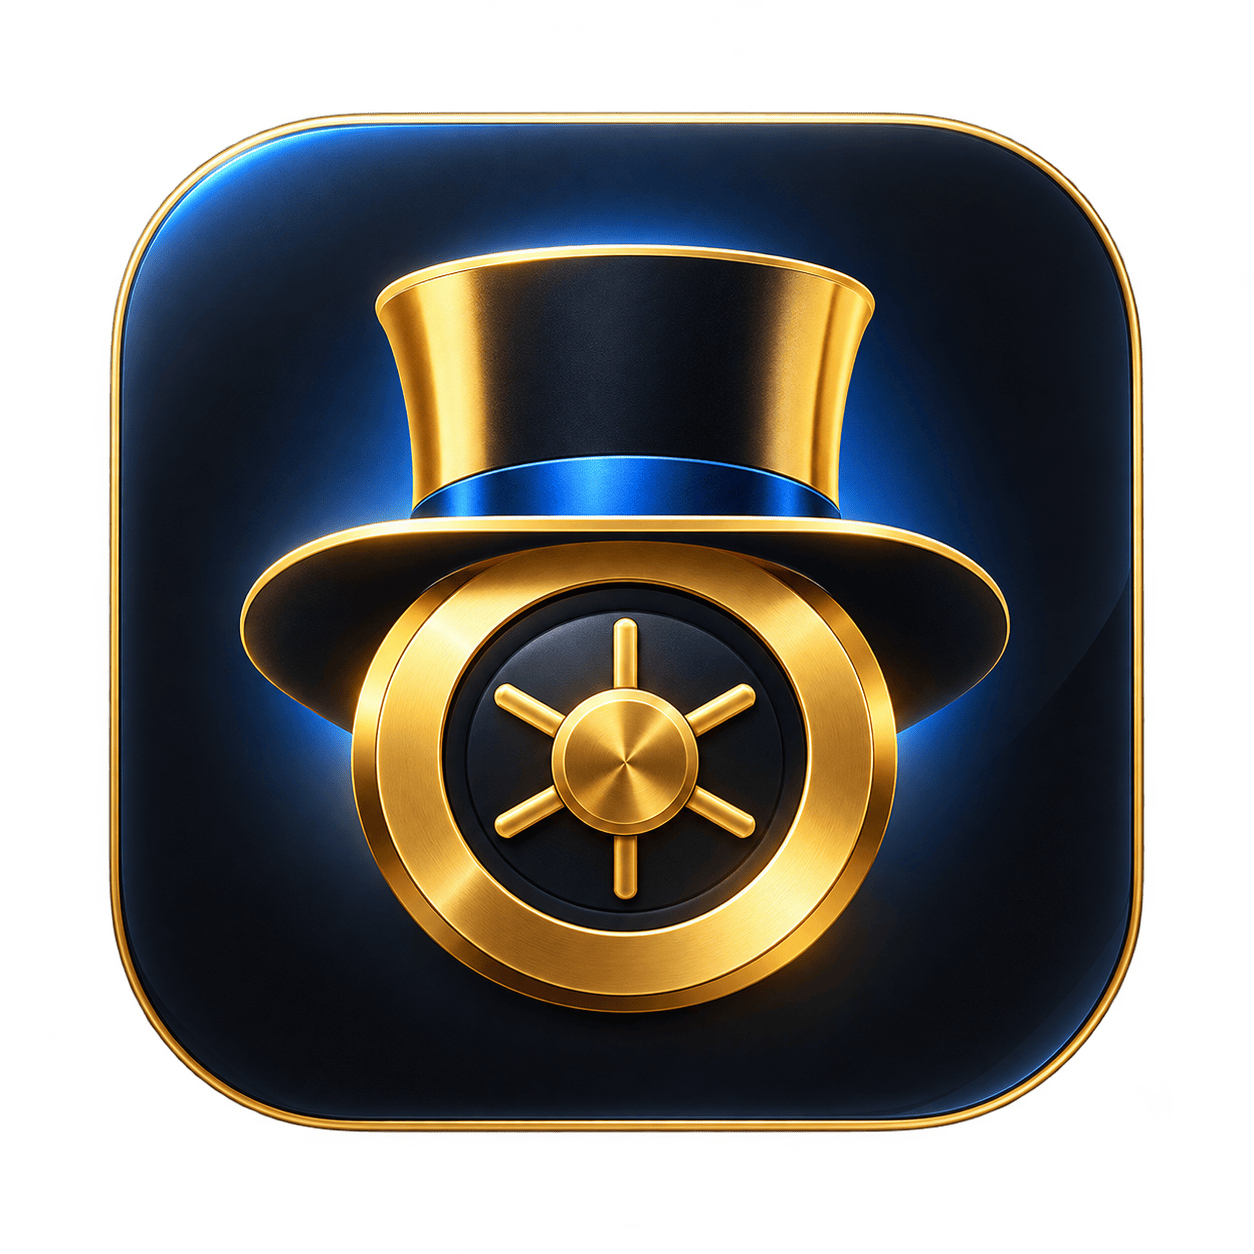
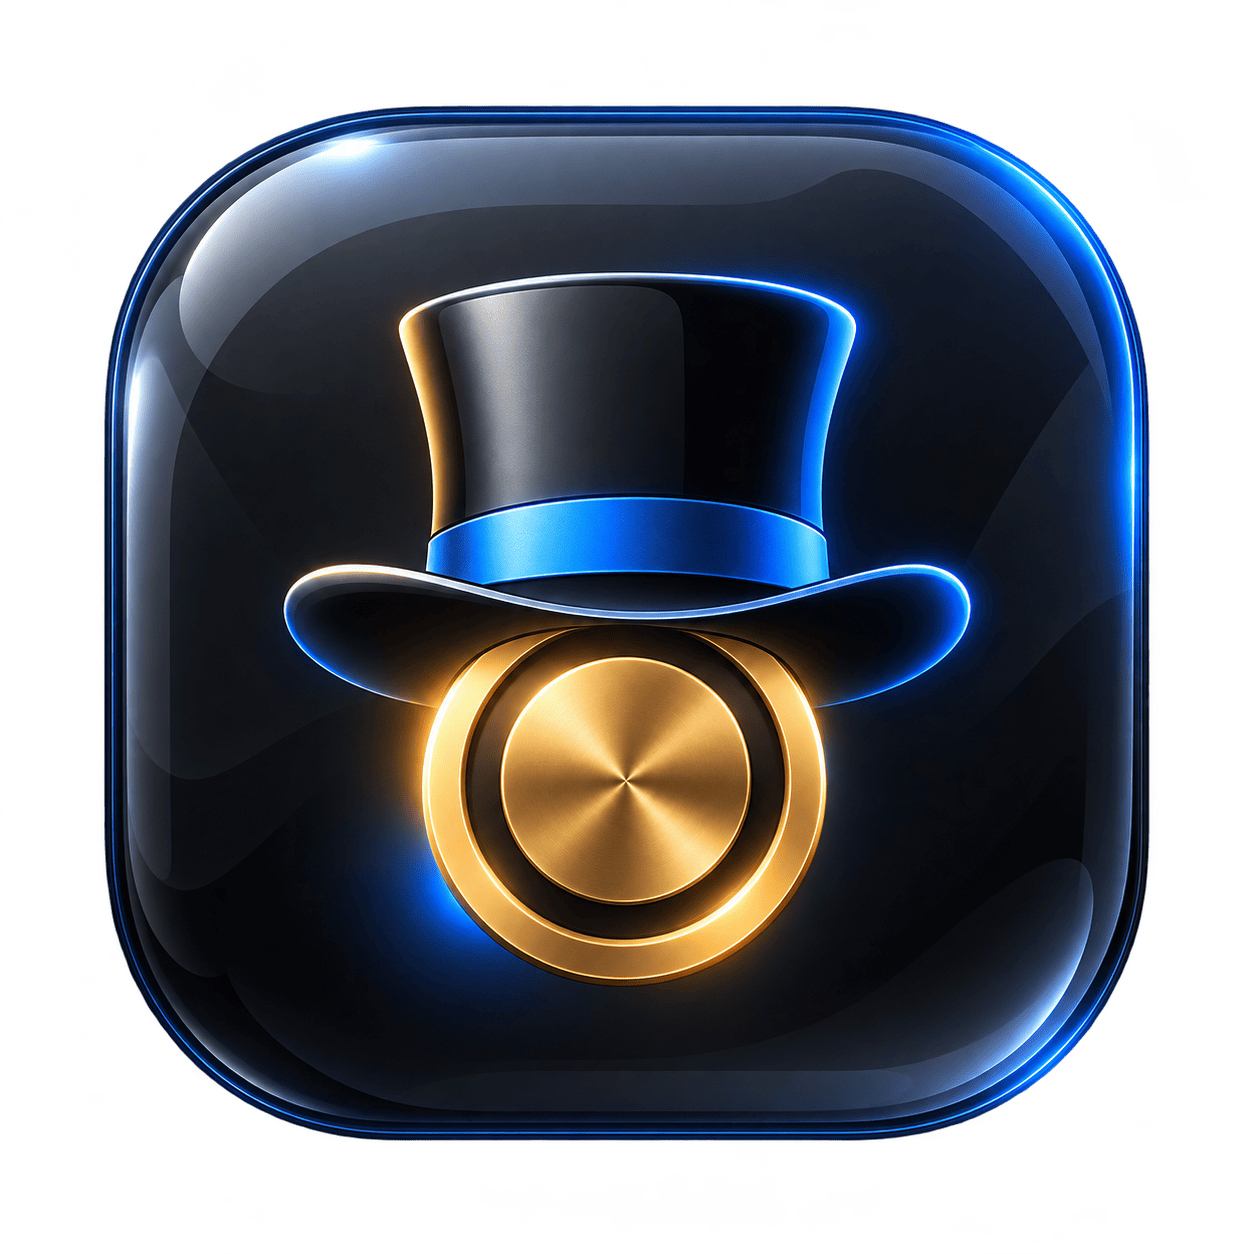
feat(branding): deploy compressed IconDagobertV3 & fix statistics dropdown and inactive contrast styling

diff --git a/src/components/StatisticsView.tsx b/src/components/StatisticsView.tsx
@@ -16,7 +16,7 @@ const percentage = new Intl.NumberFormat('de-DE', { maximumFractionDigits: 1 });
 const months = Array.from({ length: 12 }, (_, index) =>
   new Intl.DateTimeFormat('de-DE', { month: 'long' }).format(new Date(2020, index, 1)));
 const card = 'rounded-3xl border border-ios-separator dark:border-ios-darkSeparator glass-surface p-4 sm:p-5 shadow-sm';
-const secondary = 'text-slate-600 dark:text-slate-400';
+const secondary = 'text-slate-600 dark:text-slate-300';
 const control = 'min-h-[48px] rounded-xl px-4 text-sm font-semibold focus-visible:outline focus-visible:outline-2 focus-visible:outline-offset-2 focus-visible:outline-ios-tint';
 
 function signedMoney(value: number): string {
@@ -107,28 +107,50 @@ export function StatisticsView({ transactions, categories, onSelectTransaction }
           </div>
         </div>
         <div className="flex flex-wrap items-end gap-3">
-          <div className="inline-flex rounded-2xl bg-slate-100 dark:bg-neutral-800 p-1" role="group" aria-label="Zeitraumansicht">
+          <div className="inline-flex rounded-2xl glass-pill p-1 border border-ios-separator dark:border-ios-darkSeparator" role="group" aria-label="Zeitraumansicht">
             {(['year', 'month'] as const).map(value => (
               <button
                 key={value}
                 type="button"
                 aria-pressed={mode === value}
                 onClick={() => { setMode(value); clearCategory(); }}
-                className={`${control} ${mode === value ? 'bg-white dark:bg-neutral-700 shadow-sm' : secondary}`}
+                className={`${control} transition-all ${
+                  mode === value
+                    ? 'bg-ios-tint text-white shadow-sm font-bold'
+                    : 'text-slate-700 dark:text-slate-200 hover:text-slate-900 dark:hover:text-white'
+                }`}
               >{value === 'year' ? 'Jahr' : 'Monat'}</button>
             ))}
           </div>
-          <label className={`flex min-w-24 flex-col gap-1 text-xs font-semibold ${secondary}`}>
-            Jahr
-            <select aria-label="Jahr" value={year} onChange={event => { setYear(Number(event.target.value)); clearCategory(); }} className={`${control} border border-slate-200 dark:border-neutral-700 bg-white dark:bg-neutral-800 text-slate-900 dark:text-white`}>
-              {years.map(value => <option key={value} value={value}>{value}</option>)}
+          <label className="flex min-w-28 flex-col gap-1.5 text-xs font-semibold text-slate-800 dark:text-slate-200">
+            <span>Jahr</span>
+            <select
+              aria-label="Jahr"
+              value={year}
+              onChange={event => { setYear(Number(event.target.value)); clearCategory(); }}
+              className={`${control} glass-surface border border-ios-separator dark:border-ios-darkSeparator text-slate-900 dark:text-white outline-none cursor-pointer shadow-sm`}
+            >
+              {years.map(value => (
+                <option key={value} value={value} className="bg-white dark:bg-neutral-900 text-slate-900 dark:text-white">
+                  {value}
+                </option>
+              ))}
             </select>
           </label>
           {mode === 'month' && (
-            <label className={`flex min-w-36 flex-col gap-1 text-xs font-semibold ${secondary}`}>
-              Monat
-              <select aria-label="Monat" value={month} onChange={event => { setMonth(Number(event.target.value)); clearCategory(); }} className={`${control} border border-slate-200 dark:border-neutral-700 bg-white dark:bg-neutral-800 text-slate-900 dark:text-white`}>
-                {months.map((name, index) => <option key={name} value={index + 1}>{name}</option>)}
+            <label className="flex min-w-36 flex-col gap-1.5 text-xs font-semibold text-slate-800 dark:text-slate-200">
+              <span>Monat</span>
+              <select
+                aria-label="Monat"
+                value={month}
+                onChange={event => { setMonth(Number(event.target.value)); clearCategory(); }}
+                className={`${control} glass-surface border border-ios-separator dark:border-ios-darkSeparator text-slate-900 dark:text-white outline-none cursor-pointer shadow-sm`}
+              >
+                {months.map((name, index) => (
+                  <option key={name} value={index + 1} className="bg-white dark:bg-neutral-900 text-slate-900 dark:text-white">
+                    {name}
+                  </option>
+                ))}
               </select>
             </label>
           )}
@@ -166,10 +188,10 @@ export function StatisticsView({ transactions, categories, onSelectTransaction }
                 type="button"
                 aria-label={`${months[item.month - 1]} ${year}: Einnahmen ${currency.format(item.income)}, Ausgaben ${currency.format(item.expense)}, Netto ${signedMoney(item.net)}. Monat anzeigen`}
                 onClick={() => { setMonth(item.month); setMode('month'); clearCategory(); }}
-                className="min-w-0 rounded-2xl p-3 text-left hover:bg-slate-50 dark:hover:bg-neutral-800 focus-visible:outline focus-visible:outline-2 focus-visible:outline-ios-tint"
+                className="min-w-0 rounded-2xl p-3 text-left glass-pill border border-ios-separator dark:border-ios-darkSeparator hover:border-ios-tint/50 transition-all focus-visible:outline focus-visible:outline-2 focus-visible:outline-ios-tint"
               >
                 <div className="flex flex-wrap justify-between gap-x-3 gap-y-1 text-xs">
-                  <span className="font-bold">{months[item.month - 1]}</span>
+                  <span className="font-bold text-slate-900 dark:text-white">{months[item.month - 1]}</span>
                   <span className={secondary}>Netto <span className={`font-semibold tabular-nums ${item.net < 0 ? 'text-red-700 dark:text-red-400' : 'text-emerald-700 dark:text-emerald-400'}`}>{signedMoney(item.net)}</span></span>
                 </div>
                 <div className="mt-2 grid grid-cols-[minmax(0,1fr)_auto] items-center gap-x-3 gap-y-1.5">
@@ -187,9 +209,20 @@ export function StatisticsView({ transactions, categories, onSelectTransaction }
       <section className={card} aria-labelledby="statistics-categories-title">
         <div className="flex flex-wrap items-center justify-between gap-3">
           <h2 id="statistics-categories-title" className="font-bold">{categoryLabel} nach Kategorie · {periodLabel}</h2>
-          <div role="group" aria-label="Kategorieauswertung" className="inline-flex rounded-2xl bg-slate-100 dark:bg-neutral-800 p-1">
+          <div role="group" aria-label="Kategorieauswertung" className="inline-flex rounded-2xl glass-pill p-1 border border-ios-separator dark:border-ios-darkSeparator">
             {(['expense', 'income'] as const).map(value => (
-              <button key={value} type="button" aria-label={value === 'expense' ? 'Ausgaben' : 'Einnahmen'} aria-pressed={direction === value} onClick={() => { setDirection(value); clearCategory(); }} className={`${control} ${direction === value ? 'bg-white dark:bg-neutral-700 shadow-sm' : secondary}`}>
+              <button
+                key={value}
+                type="button"
+                aria-label={value === 'expense' ? 'Ausgaben' : 'Einnahmen'}
+                aria-pressed={direction === value}
+                onClick={() => { setDirection(value); clearCategory(); }}
+                className={`${control} transition-all ${
+                  direction === value
+                    ? 'bg-ios-tint text-white shadow-sm font-bold'
+                    : 'text-slate-700 dark:text-slate-200 hover:text-slate-900 dark:hover:text-white'
+                }`}
+              >
                 {value === 'expense' ? 'Ausgaben' : 'Einnahmen'}
               </button>
             ))}
@@ -216,7 +249,7 @@ export function StatisticsView({ transactions, categories, onSelectTransaction }
                     aria-label={`${category.name}: ${currency.format(category.amount)}, ${percentage.format(category.share)} %, ${category.count} Buchungen`}
                     aria-pressed={selectedCategoryId === category.id}
                     onClick={() => selectCategory(category.id)}
-                    className={`w-full min-h-[56px] flex items-center gap-2 rounded-2xl border p-3 text-left focus-visible:outline focus-visible:outline-2 focus-visible:outline-ios-tint ${selectedCategoryId === category.id ? 'border-ios-tint bg-ios-tint/10' : 'border-transparent hover:bg-slate-50 dark:hover:bg-neutral-800'}`}
+                    className={`w-full min-h-[56px] flex items-center gap-2 rounded-2xl border p-3 text-left focus-visible:outline focus-visible:outline-2 focus-visible:outline-ios-tint transition-all ${selectedCategoryId === category.id ? 'border-ios-tint bg-ios-tint/15 shadow-sm' : 'border-transparent glass-pill hover:border-ios-separator dark:hover:border-ios-darkSeparator'}`}
                   >
                     <span className={`w-5 shrink-0 text-xs tabular-nums ${secondary}`}>{index + 1}.</span>
                     <CategoryIcon name={category.icon} className="w-5 h-5 shrink-0 text-slate-500 dark:text-slate-400" />
